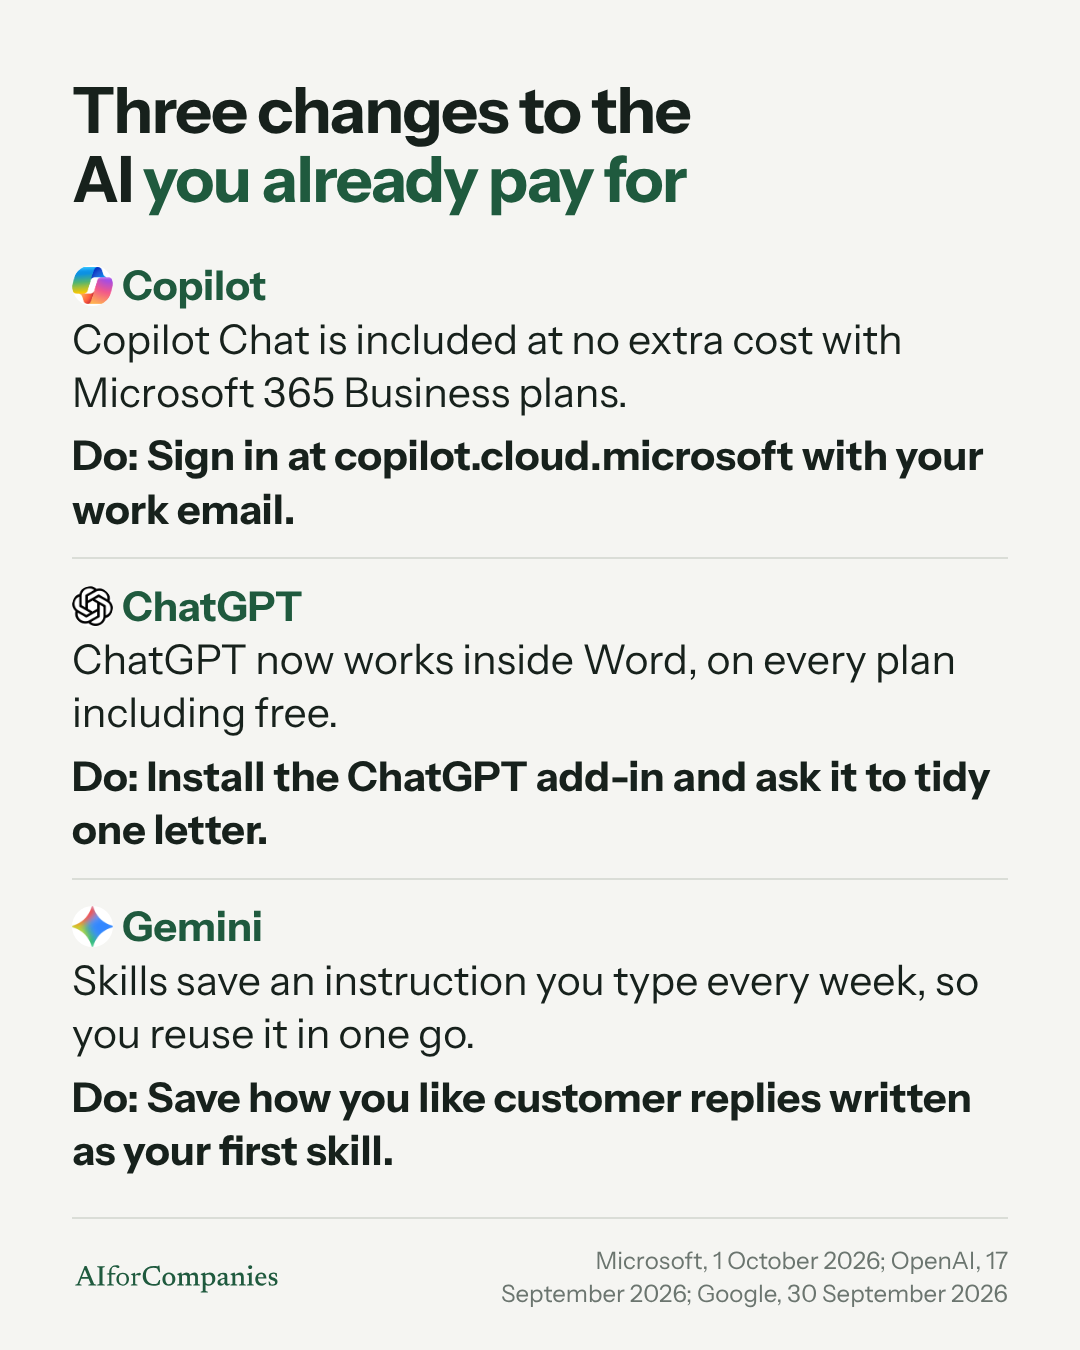
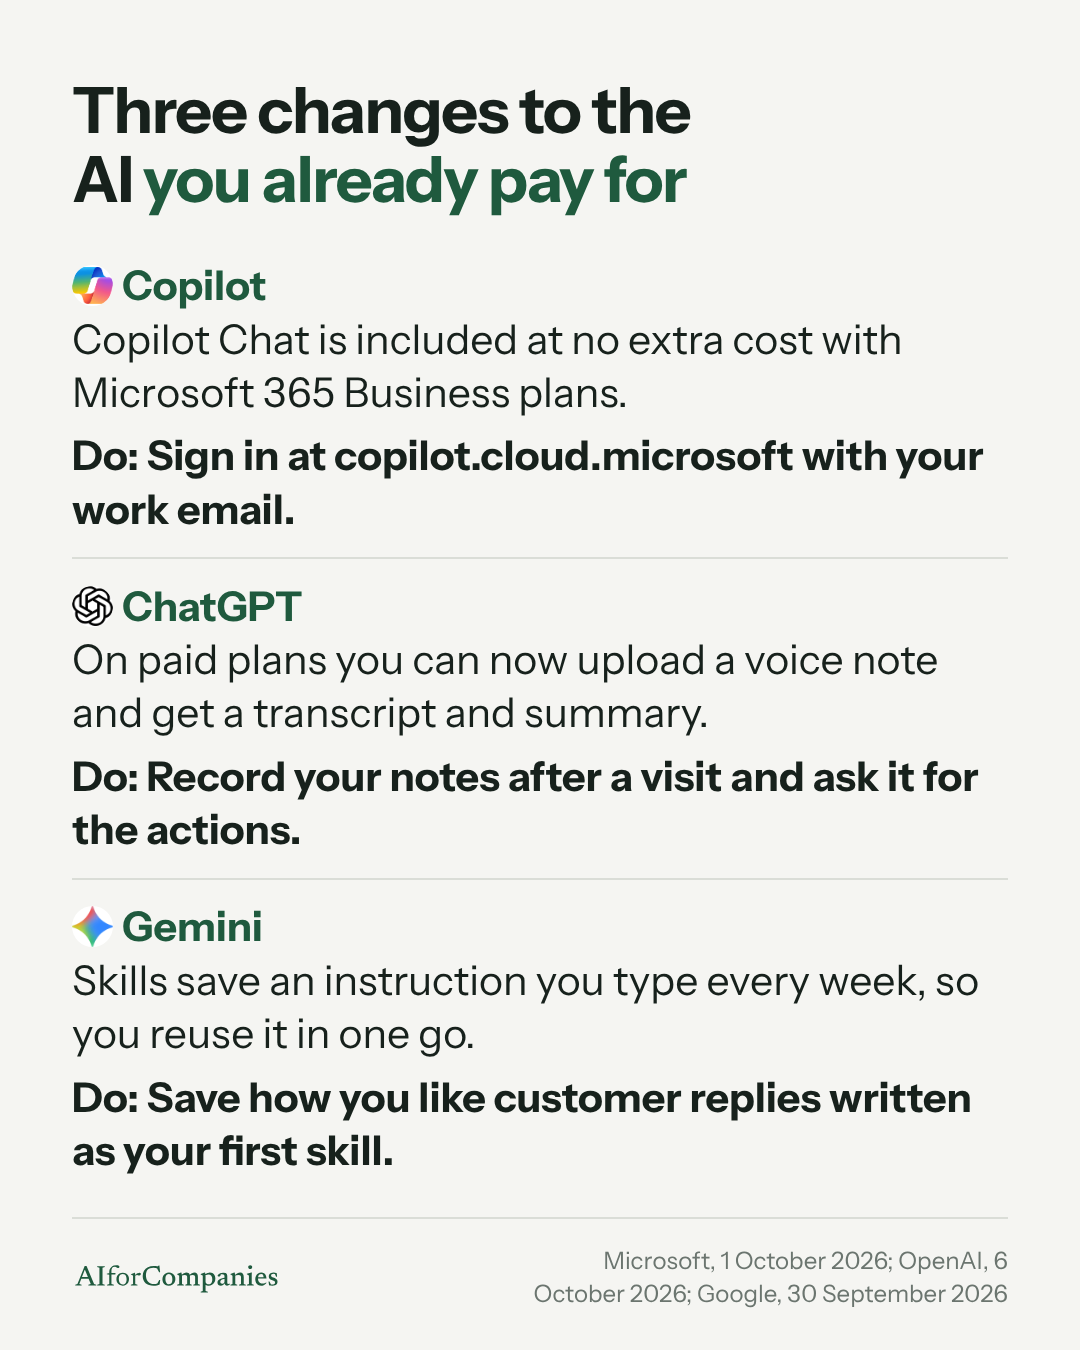
Roundup 16 October: swap ChatGPT in Word for audio uploads
ChatGPT in Word ran on the page on 22 September, inside the roundup's
30-day filter. Replaced with audio uploads (OpenAI release notes,
6 October 2026, paid plans).

Claude-Session: https://claude.ai/code/session_01RZ8gX7aQKp1CJnEnZVTrUe

diff --git a/bank/posts/2026-10-16-already-pay-for.md b/bank/posts/2026-10-16-already-pay-for.md
@@ -2,7 +2,7 @@ Three changes to the AI you already pay for, one for each tool.
 
 Copilot. If your firm has Microsoft 365 Business Basic, Standard or Premium, Copilot Chat is already included at no extra cost. Sign in at copilot.cloud.microsoft with your work email and paste in a letter or price list to work on. Reading your whole inbox and files needs the paid Copilot add-on. (Microsoft Learn, Copilot Chat eligibility, updated 1 October 2026)
 
-ChatGPT. It now works inside Word as a sidebar, on every plan including the free one. Install the ChatGPT add-in, open a letter you've been putting off, and ask it to make it shorter and clearer. (OpenAI, ChatGPT release notes, 17 September 2026)
+ChatGPT. On paid plans you can now upload an audio file, such as a voice note, and get a transcript, a summary or a follow-up email drafted from it. Record your notes after a site visit or a client meeting and ask it for the actions. Transcripts can contain mistakes, so check names and numbers. (OpenAI, ChatGPT release notes, 6 October 2026)
 
 Gemini. Skills let you save an instruction you'd otherwise type every week, such as how you like customer replies written, and reuse it in one go. They're reaching Google Workspace Business plans between now and mid-November. (Google Workspace Updates, 30 September 2026)
 
